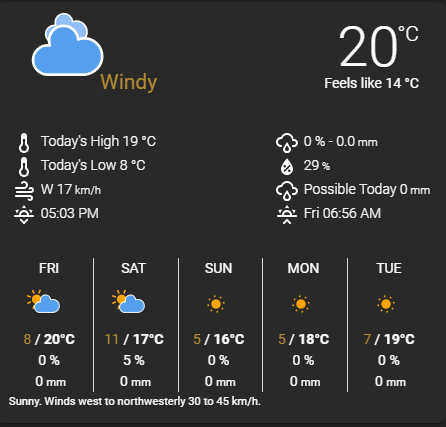
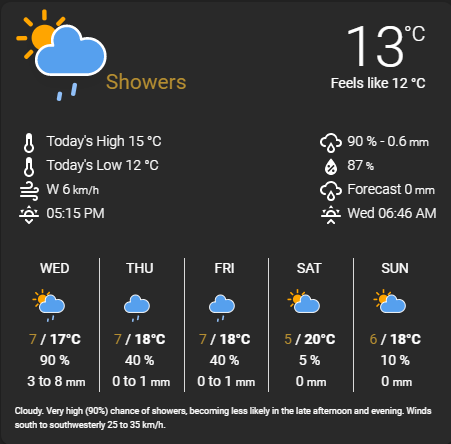
update weather card

diff --git a/bom-weather-card.js b/bom-weather-card.js
@@ -19,7 +19,7 @@ class BOMWeatherCard extends LitElement {
 //    var icons = this.config.static_icons ? "static" : "animated";
     var currentText = this.config.entity_current_text ? html`<span class="currentText" id="current-text">${this._hass.states[this.config.entity_current_text].state}</span>` : ``;
     var apparentTemp = this.config.entity_apparent_temp ? html`<span class="apparent">${this.localeText.feelsLike} <span id="apparent-text">${this.current.apparent}</span> ${this.getUOM("temperature")}</span>` : ``;
-    var summary = this.config.entity_daily_summary ? html`<br><span class="summary" id="daily-summary-text">${this._hass.states[this.config.entity_daily_summary].state}</span>` : ``;
+    var summary = this.config.entity_daily_summary ? html`<span class="summary" id="daily-summary-text">${this._hass.states[this.config.entity_daily_summary].state}</span>` : ``;
     var separator = this.config.show_separator ? html`<hr class=line>` : ``;
     
     
@@ -64,9 +64,9 @@ class BOMWeatherCard extends LitElement {
                   <div class="fcasttooltiptext" id="fcast-summary-${daily.dayIndex}">${ this.config.tooltips ? this._hass.states[daily.summary].state : ""}</div>
                 </div>`)}
               </div>
-			<div class="summary text">
-			  ${summary}
-			  </div>
+            <div class="summary clear">
+              ${summary}
+              </div>
       </ha-card>
     `;
   }
@@ -491,7 +491,7 @@ style() {
   var largeIconLeftPos = this.config.large_icon_left_pos || "0em";
   var currentDataTopMargin = this.config.current_data_top_margin ? this.config.current_data_top_margin : this.config.show_separator ? "1em" : "7em";
   var separatorTopMargin = this.config.separator_top_margin || "6em";
-  var summaryTopMargin = this.config.summary_top_margin || "0.2em";
+  var summaryTopPadding = this.config.summary_top_padding || "1em";
   var summaryFontSize = this.config.summary_font_size || "0.8em";
   
   return html`
@@ -552,6 +552,8 @@ style() {
         font-size: ${currentTextFontSize};
         color: var(--secondary-text-color);
         position: absolute;
+        overflow: hidden;
+        white-space: nowrap;
         left: ${currentTextLeftPos};
         margin-top: ${currentTextTopMargin};
       }
@@ -583,7 +585,7 @@ style() {
 
       .summary {
         font-size: ${summaryFontSize};
-		margin-top: ${summaryTopMargin};
+        padding-top: ${summaryTopPadding};
       }
 
       .forecast {

diff --git a/README.md b/README.md
@@ -219,7 +219,7 @@ show_beaufort: true
 | large_icon_top_margin    | **-3.5em** / px or em value | Sets the top margin of the current conditions icon                          |
 | large_icon_left_position | **0em** / px or em value    | Sets the left position of the current conditions icon                       |
 | separator_top_margin     | **5em** / px or em value    | Sets the top margin of the separator line                                   |
-| summary_top_margin       | **1.2em** / px or em        | Sets the gap between the forecast and summary text                          |
+| summary_top_padding      | **1em** / px or em          | Sets the gap between the forecast and summary text                          |
 | summary_font_size        | **0.8em** / px or em        | Sets the font size for the summary text                                     |
 | slot_l1                  | **daytime_high**            | Sets the value used in current conditions slot l1 : See slots for more info |
 | slot_l2                  | **wind**                    | Sets the value used in current conditions slot l2 : See slots for more info |

diff --git a/info.md b/info.md
@@ -1,5 +1,15 @@
 # BOM Weather Card
 
+# Breaking Change
+I have changed the summary font margin to padding. The key name has changed as follows:
+```
+            summary_top_padding: 1em        #default 1em px or em
+            summary_font_size: 0.8em        #default 0.8em px or em
+```
+I found that the summary_top_margin was not working when the possibility of rainfall was wrapping down to a second line. This seems to be fixed in this new release.
+I have also changed the default for the padding to 1em instead of 0.2 previously.
+I hope these changes make the card more consistent particularly when the possible rainfall wraps to a second line.
+
 ![image](https://github.com/DavidFW1960/bom-weather-card/blob/master/bom-weather.png)
 
 
